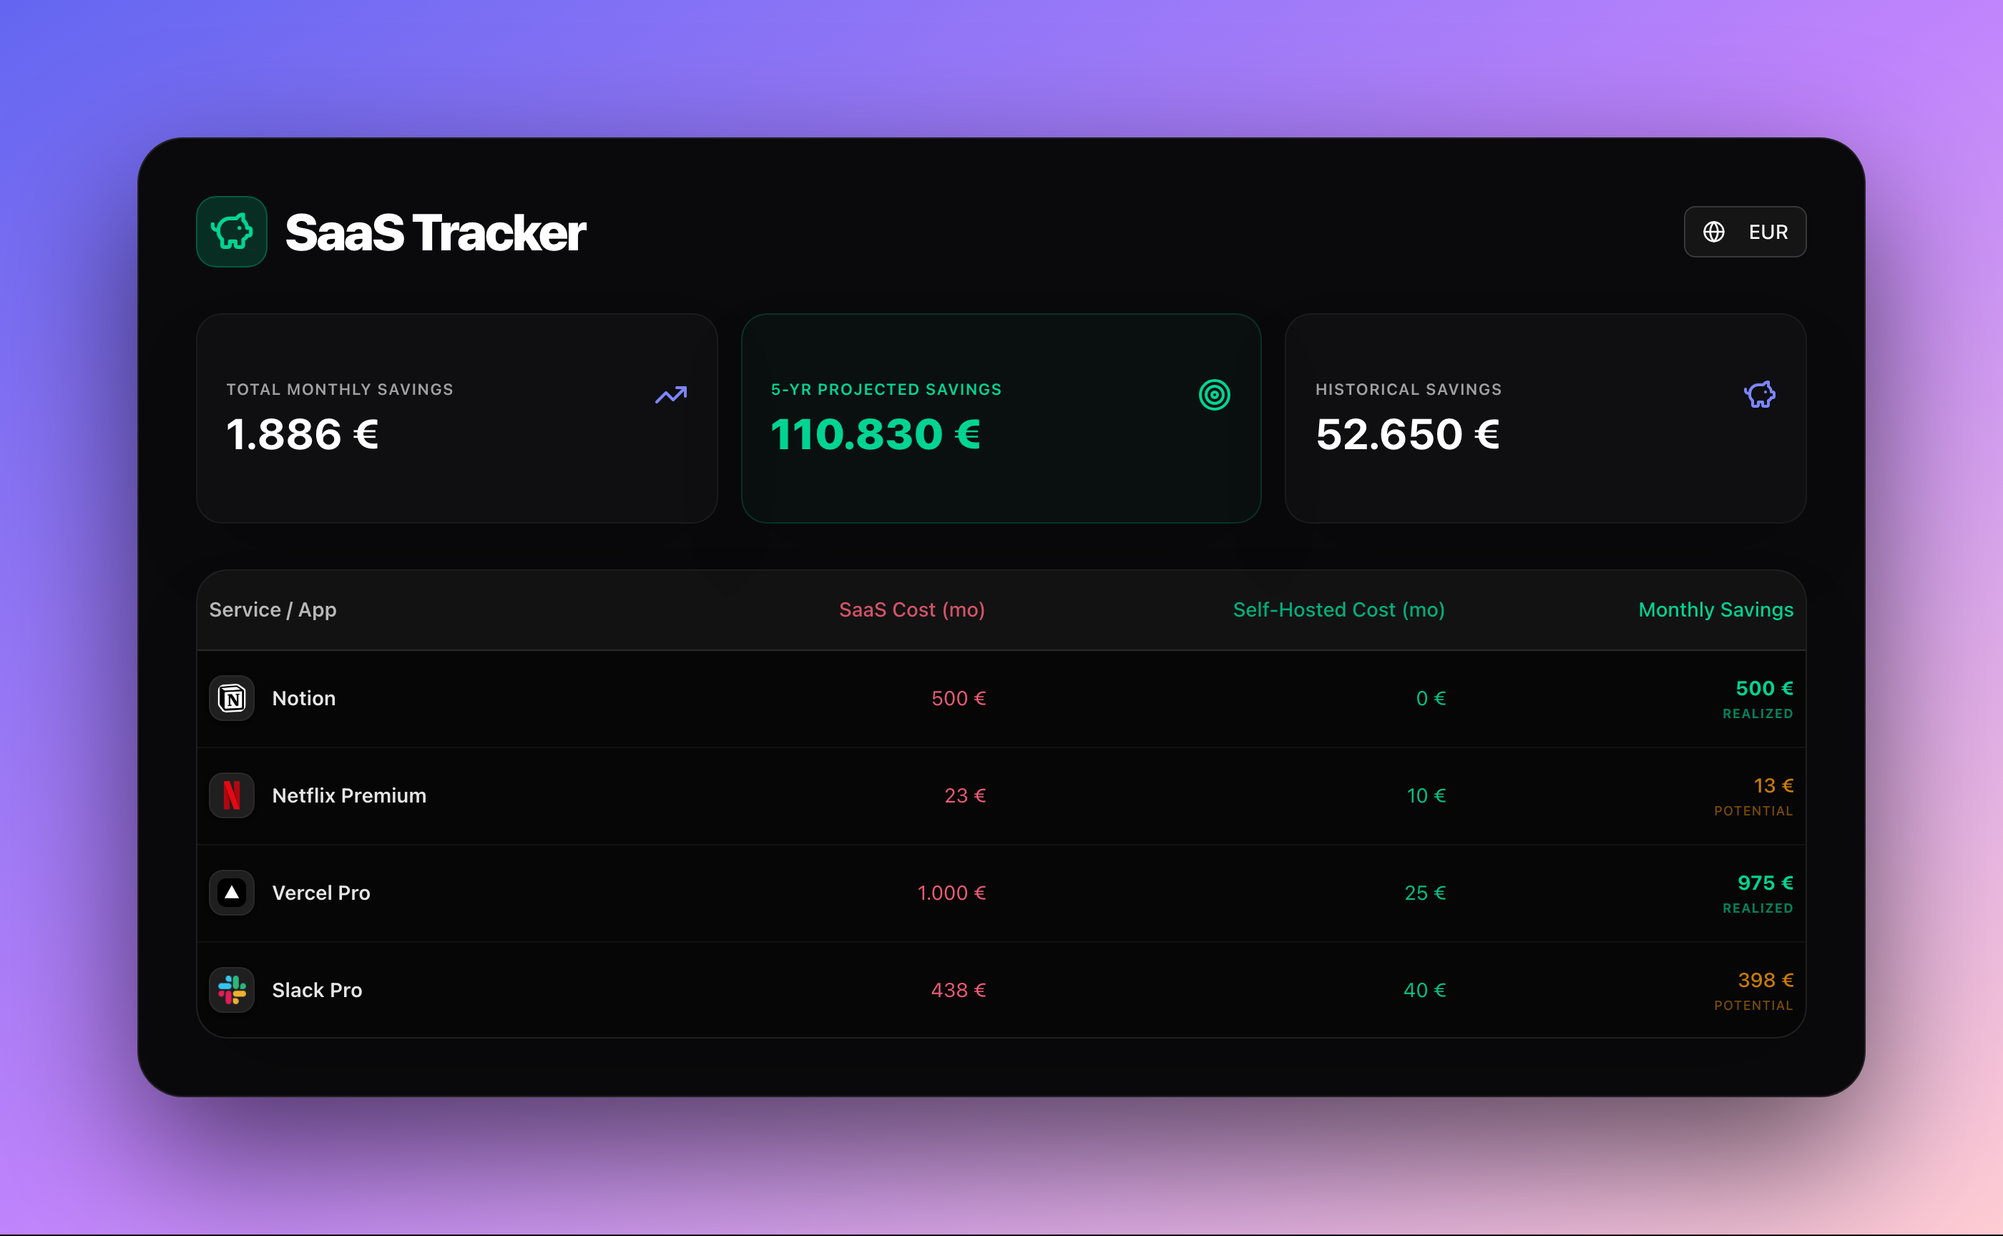
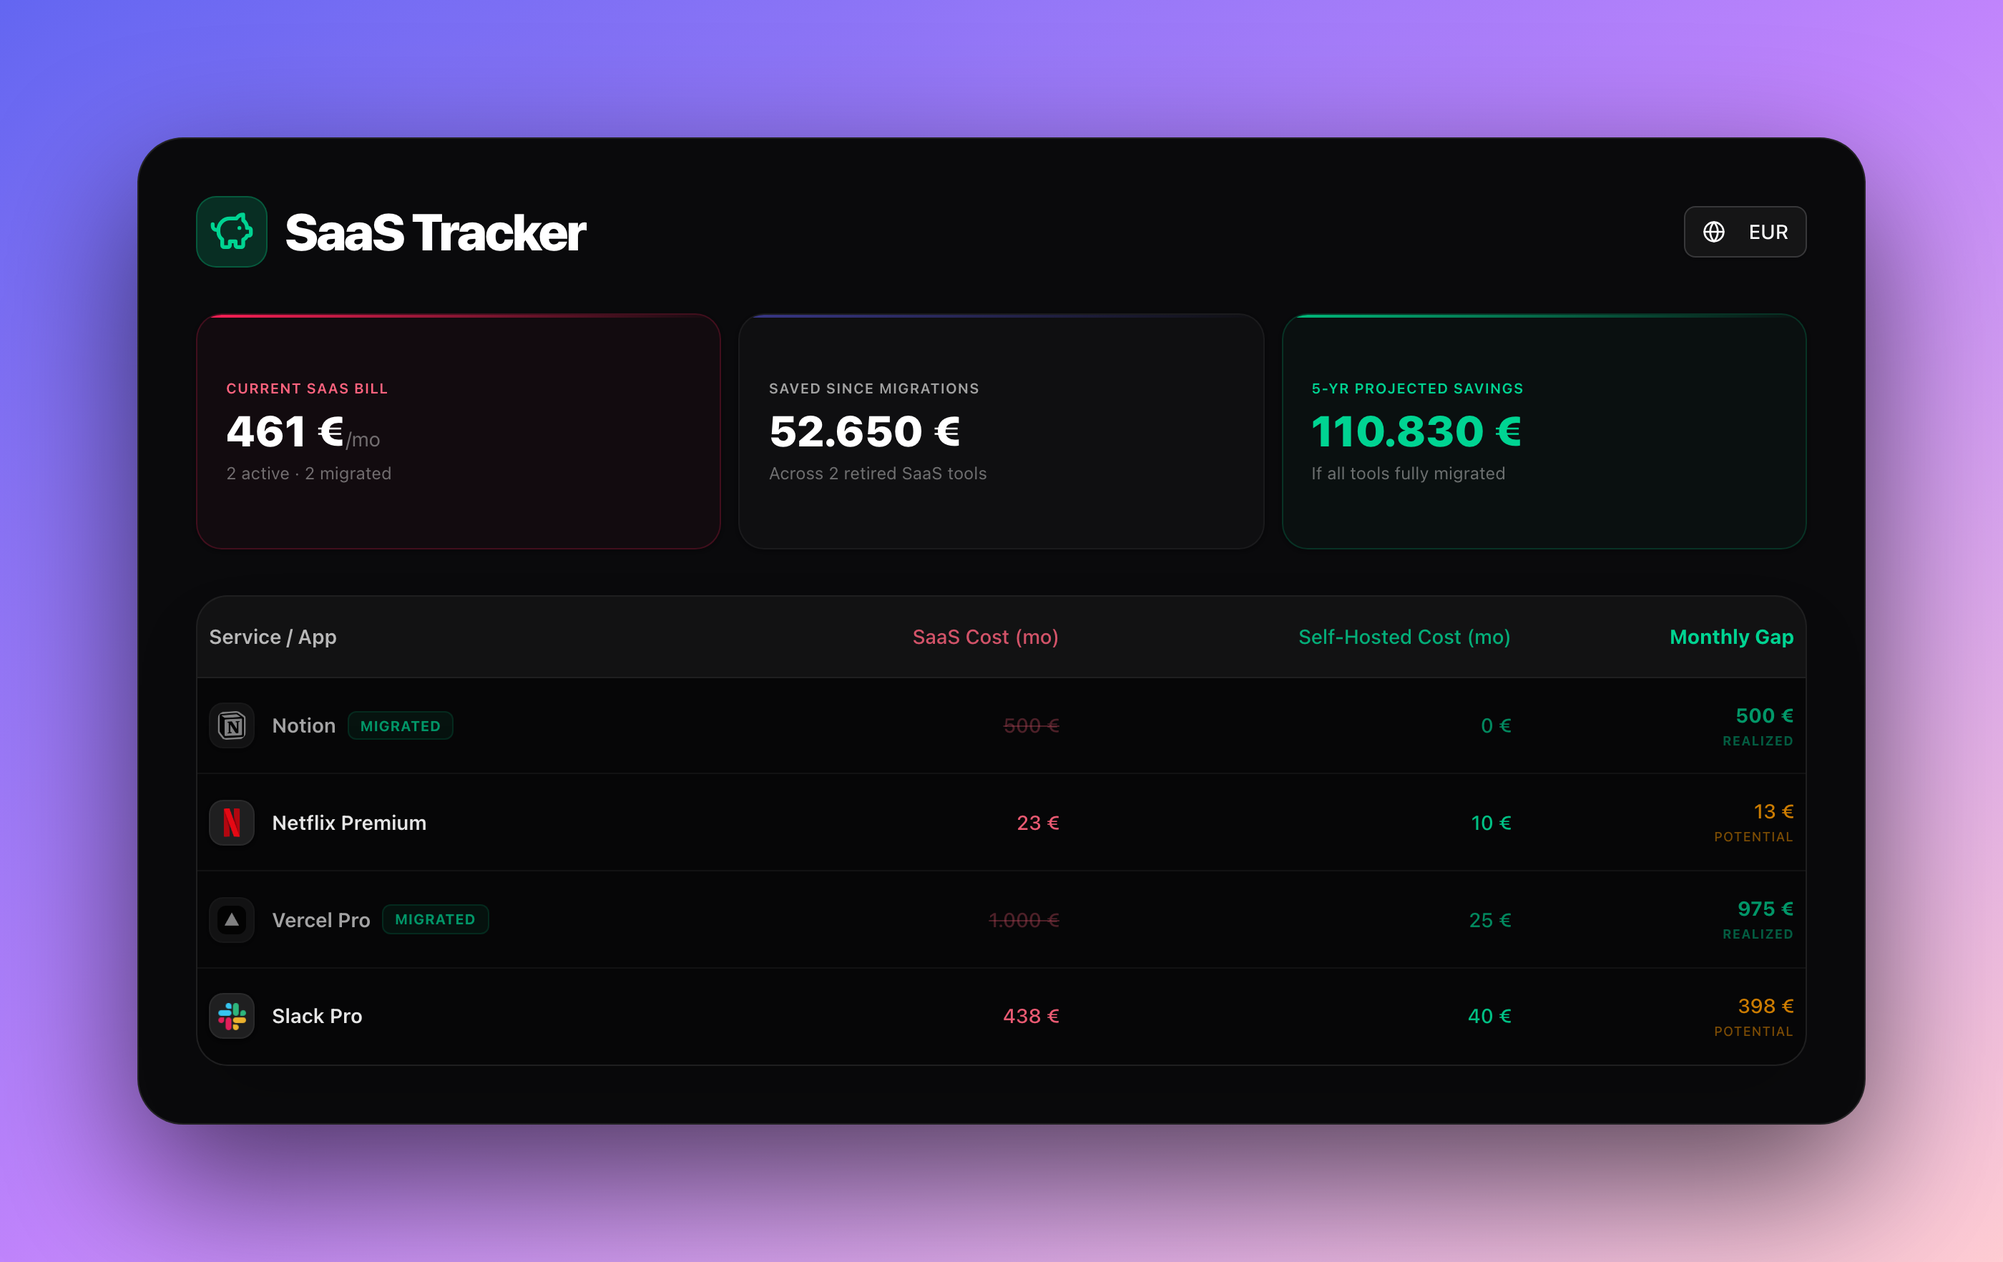
fix: eliminate duplicate metrics, sync marketing studio with real app layout, 3 distinct KPIs only

diff --git a/src/app/marketing-studio/page.tsx b/src/app/marketing-studio/page.tsx
@@ -1,10 +1,9 @@
 "use client";
 
 import { useMemo } from "react";
-import { SubscriptionInput, calculateAggregatedProjections, calculateTotalPastSavings } from "@/lib/calculator";
+import { SubscriptionInput, calculateAggregatedProjections, calculateActualCostProjections, calculateTotalPastSavings } from "@/lib/calculator";
 import { SavingsVisualizations } from "@/components/calculator/SavingsVisualizations";
-import { QualitativeBenefits } from "@/components/calculator/QualitativeBenefits";
-import { PiggyBank, Target, TrendingUp, Globe, AppWindow } from "lucide-react";
+import { PiggyBank, Globe, AppWindow } from "lucide-react";
 import { Card, CardContent } from "@/components/ui/card";
 import { Table, TableBody, TableCell, TableHead, TableHeader, TableRow } from "@/components/ui/table";
 import { Button } from "@/components/ui/button";
@@ -12,7 +11,7 @@ import { Button } from "@/components/ui/button";
 function SubscriptionIcon({ name }: { name: string }) {
   const guessDomain = (appName: string) => {
     const lower = appName.toLowerCase().replace(/[^a-z0-9 ]/g, '').split(' ')[0];
-    const overrides: Record<string, string> = { vercel: "vercel.com", notion: "notion.so", netflix: "netflix.com" };
+    const overrides: Record<string, string> = { vercel: "vercel.com", notion: "notion.so", netflix: "netflix.com", slack: "slack.com" };
     return overrides[lower] || `${lower}.com`;
   };
   return (
@@ -23,7 +22,7 @@ function SubscriptionIcon({ name }: { name: string }) {
 }
 
 export default function MarketingStudio() {
-  const currency = "EUR";
+  const currency = "EUR" as const;
   const formatCurrency = (val: number) => new Intl.NumberFormat('de-DE', { style: 'currency', currency: 'EUR', minimumFractionDigits: 0, maximumFractionDigits: 0 }).format(val);
 
   const subscriptions: SubscriptionInput[] = [
@@ -34,12 +33,14 @@ export default function MarketingStudio() {
   ];
 
   const projections = useMemo(() => calculateAggregatedProjections(subscriptions, 60), [subscriptions]);
+  const actualProjections = useMemo(() => calculateActualCostProjections(subscriptions, 60), [subscriptions]);
   const pastSavings = useMemo(() => calculateTotalPastSavings(subscriptions), [subscriptions]);
   
   const year5 = projections[60] || { savings: 0 };
-  const totalMonthlyGap = subscriptions.reduce((acc, sub) => acc + ((sub.saasPerUser * sub.users) - sub.selfHostedMonthly), 0);
+  const activeSubs = subscriptions.filter(s => !s.quitDate);
+  const migratedSubs = subscriptions.filter(s => !!s.quitDate);
+  const activeMonthlyBurn = activeSubs.reduce((acc, s) => acc + s.saasPerUser * s.users, 0);
 
-  // Re-usable Wrapper Shell
   const BrowserShell = ({ children }: { children: React.ReactNode }) => (
     <div className="w-full bg-[#0a0a0c] rounded-[2rem] shadow-[0_40px_100px_rgba(0,0,0,0.6)] border border-white/10 overflow-hidden relative">
       <div className="p-10">{children}</div>
@@ -49,42 +50,76 @@ export default function MarketingStudio() {
   return (
     <div className="min-h-screen bg-black flex flex-col items-center gap-32 p-32 font-sans selection:bg-emerald-500/30">
       
-      {/* SHOT 1: Hero Dashboard */}
+      {/* SHOT 1: Hero Dashboard — matches real app layout exactly */}
       <div id="shot-1" className="w-[1400px] p-24 bg-gradient-to-br from-[#6366f1] via-[#c084fc] to-rose-200 flex items-center justify-center">
         <BrowserShell>
           <div className="space-y-8">
+            {/* Header */}
             <div className="flex justify-between items-center">
               <div className="flex items-center gap-3">
                 <div className="p-2 bg-emerald-500/20 rounded-xl border border-emerald-500/30"><PiggyBank className="w-8 h-8 text-emerald-400" /></div>
                 <h1 className="text-4xl font-black text-white tracking-tighter">SaaS Tracker</h1>
               </div>
-              <div className="flex gap-2">
-                 <Button variant="outline" className="border-white/10 bg-white/5 text-white"><Globe className="w-4 h-4 mr-2" /> EUR</Button>
-              </div>
+              <Button variant="outline" className="border-white/10 bg-white/5 text-white"><Globe className="w-4 h-4 mr-2" /> EUR</Button>
             </div>
 
-            <div className="grid grid-cols-3 gap-4">
-               <Card className="border-white/5 bg-white/[0.02] shadow-2xl rounded-2xl relative overflow-hidden"><CardContent className="p-5 flex justify-between"><div className="space-y-1"><p className="text-[11px] font-semibold text-muted-foreground uppercase tracking-wider">Total Monthly Savings</p><p className="text-3xl font-bold text-white">{formatCurrency(totalMonthlyGap)}</p></div><TrendingUp className="w-6 h-6 text-indigo-400" /></CardContent></Card>
-               <Card className="border-emerald-500/20 bg-emerald-500/[0.03] shadow-2xl rounded-2xl relative overflow-hidden"><CardContent className="p-5 flex justify-between"><div className="space-y-1"><p className="text-[11px] font-semibold text-emerald-400 uppercase tracking-wider">5-Yr Projected Savings</p><p className="text-3xl font-black text-emerald-400">{formatCurrency(year5.savings)}</p></div><Target className="w-6 h-6 text-emerald-400" /></CardContent></Card>
-               <Card className="border-white/5 bg-white/[0.02] shadow-2xl rounded-2xl relative overflow-hidden"><CardContent className="p-5 flex justify-between"><div className="space-y-1"><p className="text-[11px] font-semibold text-muted-foreground uppercase tracking-wider">Historical Savings</p><p className="text-3xl font-bold text-white">{formatCurrency(pastSavings)}</p></div><PiggyBank className="w-6 h-6 text-indigo-400" /></CardContent></Card>
+            {/* 3 KPI cards — same as real app */}
+            <div className="grid grid-cols-3 gap-3">
+              <Card className="border-rose-500/20 bg-rose-500/[0.03] rounded-2xl overflow-hidden relative">
+                <div className="absolute top-0 left-0 w-full h-0.5 bg-gradient-to-r from-rose-500 to-transparent" />
+                <CardContent className="p-5">
+                  <p className="text-[10px] font-semibold text-rose-400 uppercase tracking-wider mb-1">Current SaaS Bill</p>
+                  <p className="text-3xl font-black text-white">{formatCurrency(activeMonthlyBurn)}<span className="text-sm font-normal text-white/40">/mo</span></p>
+                  <p className="text-xs text-white/40 mt-1">{activeSubs.length} active · {migratedSubs.length} migrated</p>
+                </CardContent>
+              </Card>
+              <Card className="border-white/5 bg-white/[0.02] rounded-2xl overflow-hidden relative">
+                <div className="absolute top-0 left-0 w-full h-0.5 bg-gradient-to-r from-indigo-500/50 to-transparent" />
+                <CardContent className="p-5">
+                  <p className="text-[10px] font-semibold text-muted-foreground uppercase tracking-wider mb-1">Saved Since Migrations</p>
+                  <p className="text-3xl font-black text-white">{formatCurrency(pastSavings)}</p>
+                  <p className="text-xs text-white/40 mt-1">Across {migratedSubs.length} retired SaaS tool{migratedSubs.length !== 1 ? 's' : ''}</p>
+                </CardContent>
+              </Card>
+              <Card className="border-emerald-500/20 bg-emerald-500/[0.03] rounded-2xl overflow-hidden relative">
+                <div className="absolute top-0 left-0 w-full h-0.5 bg-gradient-to-r from-emerald-500 to-transparent" />
+                <CardContent className="p-5">
+                  <p className="text-[10px] font-semibold text-emerald-400 uppercase tracking-wider mb-1">5-Yr Projected Savings</p>
+                  <p className="text-3xl font-black text-emerald-400">{formatCurrency(year5.savings)}</p>
+                  <p className="text-xs text-white/40 mt-1">If all tools fully migrated</p>
+                </CardContent>
+              </Card>
             </div>
 
+            {/* Table — same columns as real app */}
             <div className="rounded-3xl border border-white/10 shadow-2xl bg-black/40 overflow-hidden">
                <Table>
-                 <TableHeader className="bg-white/5 border-b border-white/10"><TableRow><TableHead className="font-semibold h-14 text-white/70">Service / App</TableHead><TableHead className="text-right h-14 text-rose-400/80">SaaS Cost (mo)</TableHead><TableHead className="text-right h-14 text-emerald-400/80">Self-Hosted Cost (mo)</TableHead><TableHead className="text-right h-14 text-emerald-400">Monthly Savings</TableHead></TableRow></TableHeader>
+                 <TableHeader className="bg-white/5 border-b border-white/10"><TableRow><TableHead className="font-semibold h-14 text-white/70">Service / App</TableHead><TableHead className="text-right h-14 text-rose-400/80">SaaS Cost (mo)</TableHead><TableHead className="text-right h-14 text-emerald-400/80">Self-Hosted Cost (mo)</TableHead><TableHead className="text-right h-14 text-emerald-400 font-bold">Monthly Gap</TableHead></TableRow></TableHeader>
                  <TableBody>
                    {subscriptions.map(sub => {
                      const saasMonthly = sub.saasPerUser * sub.users;
+                     const selfHostedMonthly = sub.hasSelfHostedCost !== false ? sub.selfHostedMonthly : 0;
+                     const gap = saasMonthly - selfHostedMonthly;
                      return (
-                       <TableRow key={sub.id} className="border-white/5">
-                         <TableCell className="font-semibold text-white/90 py-4 max-w-[200px]"><div className="flex items-center gap-3"><SubscriptionIcon name={sub.name} />{sub.name}</div></TableCell>
-                         <TableCell className="text-right text-rose-400/90 py-4">{formatCurrency(saasMonthly)}</TableCell>
-                         <TableCell className="text-right text-emerald-400/90 py-4">{formatCurrency(sub.selfHostedMonthly)}</TableCell>
-                         <TableCell className={`text-right py-4 flex flex-col items-end justify-center ${sub.quitDate ? 'text-emerald-400 font-bold' : 'text-amber-500/80 font-medium'}`}>
-                           {formatCurrency(saasMonthly - sub.selfHostedMonthly)}
-                           <span className="text-[9px] uppercase tracking-wider opacity-60 mt-0.5">
-                             {sub.quitDate ? 'Realized' : 'Potential'}
-                           </span>
+                       <TableRow key={sub.id} className={`border-white/5 ${sub.quitDate ? 'opacity-70' : ''}`}>
+                         <TableCell className="font-semibold text-white/90 py-4 max-w-[200px]">
+                           <div className="flex items-center gap-3">
+                             <div className={sub.quitDate ? 'grayscale opacity-70' : ''}><SubscriptionIcon name={sub.name} /></div>
+                             <div className="flex items-center gap-2">
+                               {sub.name}
+                               {sub.quitDate && <span className="bg-emerald-500/10 text-emerald-400 border border-emerald-500/20 text-[10px] font-bold px-2 py-0.5 rounded-sm uppercase tracking-wide">Migrated</span>}
+                             </div>
+                           </div>
+                         </TableCell>
+                         <TableCell className="text-right py-4 font-medium">
+                           <span className={sub.quitDate ? "line-through text-rose-400/40" : "text-rose-400/90"}>{formatCurrency(saasMonthly)}</span>
+                         </TableCell>
+                         <TableCell className="text-right text-emerald-400/90 py-4 font-medium">
+                           {sub.hasSelfHostedCost !== false ? formatCurrency(selfHostedMonthly) : <span className="text-emerald-500 bg-emerald-500/10 px-2 py-0.5 rounded text-xs">Shared (Free)</span>}
+                         </TableCell>
+                         <TableCell className={`text-right py-4 ${sub.quitDate ? 'text-emerald-400 font-bold' : 'text-amber-500/80 font-medium'}`}>
+                           {formatCurrency(gap)}
+                           <span className="block text-[9px] uppercase tracking-wider opacity-60 mt-0.5">{sub.quitDate ? 'Realized' : 'Potential'}</span>
                          </TableCell>
                        </TableRow>
                      )
@@ -96,23 +131,17 @@ export default function MarketingStudio() {
         </BrowserShell>
       </div>
 
-      {/* SHOT 2: Area Chart Tracker */}
+      {/* SHOT 2: Area Chart only */}
       <div id="shot-2" className="w-[1400px] p-24 bg-gradient-to-tr from-indigo-500 via-fuchsia-500 to-pink-200 flex flex-col items-center justify-center">
         <BrowserShell>
-          <SavingsVisualizations projections={projections} subscriptions={subscriptions} currency={currency} hideBottomCharts />
+          <SavingsVisualizations projections={projections} actualProjections={actualProjections} subscriptions={subscriptions} currency={currency} hideBottomCharts hideCommandCenter />
         </BrowserShell>
       </div>
 
-      {/* SHOT 3: Bottom Analytics */}
+      {/* SHOT 3: Bar + Donut only */}
       <div id="shot-3" className="w-[1400px] p-24 bg-gradient-to-r from-pink-500 via-purple-500 to-indigo-400 flex flex-col items-center justify-center">
         <BrowserShell>
-           <div className="space-y-6">
-                 {/* This renders just the bar and pie chart grids without the command center */}
-                 <SavingsVisualizations projections={projections} subscriptions={subscriptions} currency={currency} hideAreaChart hideCommandCenter />
-           </div>
-           <div className="hidden">
-              <QualitativeBenefits />
-           </div>
+          <SavingsVisualizations projections={projections} actualProjections={actualProjections} subscriptions={subscriptions} currency={currency} hideAreaChart hideCommandCenter />
         </BrowserShell>
       </div>
 

diff --git a/src/app/page.tsx b/src/app/page.tsx
@@ -176,52 +176,36 @@ export default function CalculatorDashboard() {
           </div>
         </div>
 
-        {/* Unified Stats Strip */}
+        {/* Dashboard KPIs */}
         {(() => {
           const activeSubs = subscriptions.filter(s => !s.quitDate);
           const migratedSubs = subscriptions.filter(s => !!s.quitDate);
           const activeMonthlyBurn = activeSubs.reduce((acc, s) => acc + s.saasPerUser * s.users, 0);
-          const potentialExtra = activeSubs.reduce((acc, s) => {
-            const sh = s.hasSelfHostedCost !== false ? s.selfHostedMonthly : 0;
-            return acc + (s.saasPerUser * s.users) - sh;
-          }, 0);
-          const totalSetupCost = subscriptions.reduce((acc, s) => acc + (s.hasSelfHostedCost !== false ? s.setupCost : 0), 0);
-          const breakEvenMonth = projections.find(p => p.savings > 0 && p.month > 0)?.month;
 
           return (
-            <div className="grid grid-cols-2 md:grid-cols-4 gap-3">
+            <div className="grid grid-cols-1 md:grid-cols-3 gap-3">
               <Card className="border-rose-500/20 bg-rose-500/[0.03] rounded-2xl overflow-hidden relative">
                 <div className="absolute top-0 left-0 w-full h-0.5 bg-gradient-to-r from-rose-500 to-transparent" />
-                <CardContent className="p-4">
-                  <p className="text-[10px] font-semibold text-rose-400 uppercase tracking-wider mb-1">Active SaaS Spend</p>
-                  <p className="text-2xl font-black text-white">{formatCurrency(activeMonthlyBurn)}<span className="text-xs font-normal text-white/40">/mo</span></p>
-                  <p className="text-[11px] text-white/40 mt-0.5">{activeSubs.length} tool{activeSubs.length !== 1 ? 's' : ''} not yet migrated</p>
-                </CardContent>
-              </Card>
-              <Card className="border-amber-500/20 bg-amber-500/[0.03] rounded-2xl overflow-hidden relative">
-                <div className="absolute top-0 left-0 w-full h-0.5 bg-gradient-to-r from-amber-500 to-transparent" />
-                <CardContent className="p-4">
-                  <p className="text-[10px] font-semibold text-amber-400 uppercase tracking-wider mb-1">Potential Extra Savings</p>
-                  <p className="text-2xl font-black text-white">{formatCurrency(potentialExtra)}<span className="text-xs font-normal text-white/40">/mo</span></p>
-                  <p className="text-[11px] text-white/40 mt-0.5">If all remaining apps migrated</p>
+                <CardContent className="p-5">
+                  <p className="text-[10px] font-semibold text-rose-400 uppercase tracking-wider mb-1">Current SaaS Bill</p>
+                  <p className="text-3xl font-black text-white">{formatCurrency(activeMonthlyBurn)}<span className="text-sm font-normal text-white/40">/mo</span></p>
+                  <p className="text-xs text-white/40 mt-1">{activeSubs.length} active · {migratedSubs.length} migrated</p>
                 </CardContent>
               </Card>
               <Card className="border-white/5 bg-white/[0.02] rounded-2xl overflow-hidden relative">
                 <div className="absolute top-0 left-0 w-full h-0.5 bg-gradient-to-r from-indigo-500/50 to-transparent" />
-                <CardContent className="p-4">
-                  <p className="text-[10px] font-semibold text-muted-foreground uppercase tracking-wider mb-1">Realized Savings</p>
-                  <p className="text-2xl font-black text-white">{formatCurrency(pastSavings)}</p>
-                  <p className="text-[11px] text-white/40 mt-0.5">{migratedSubs.length} migrated tool{migratedSubs.length !== 1 ? 's' : ''} so far</p>
+                <CardContent className="p-5">
+                  <p className="text-[10px] font-semibold text-muted-foreground uppercase tracking-wider mb-1">Saved Since Migrations</p>
+                  <p className="text-3xl font-black text-white">{formatCurrency(pastSavings)}</p>
+                  <p className="text-xs text-white/40 mt-1">Across {migratedSubs.length} retired SaaS tool{migratedSubs.length !== 1 ? 's' : ''}</p>
                 </CardContent>
               </Card>
               <Card className="border-emerald-500/20 bg-emerald-500/[0.03] rounded-2xl overflow-hidden relative">
                 <div className="absolute top-0 left-0 w-full h-0.5 bg-gradient-to-r from-emerald-500 to-transparent" />
-                <CardContent className="p-4">
+                <CardContent className="p-5">
                   <p className="text-[10px] font-semibold text-emerald-400 uppercase tracking-wider mb-1">5-Yr Projected Savings</p>
-                  <p className="text-2xl font-black text-emerald-400">{formatCurrency(year5.savings)}</p>
-                  {totalSetupCost > 0 && breakEvenMonth && (
-                    <p className="text-[11px] text-white/40 mt-0.5">Break-even at month {breakEvenMonth}</p>
-                  )}
+                  <p className="text-3xl font-black text-emerald-400">{formatCurrency(year5.savings)}</p>
+                  <p className="text-xs text-white/40 mt-1">If all tools fully migrated</p>
                 </CardContent>
               </Card>
             </div>
